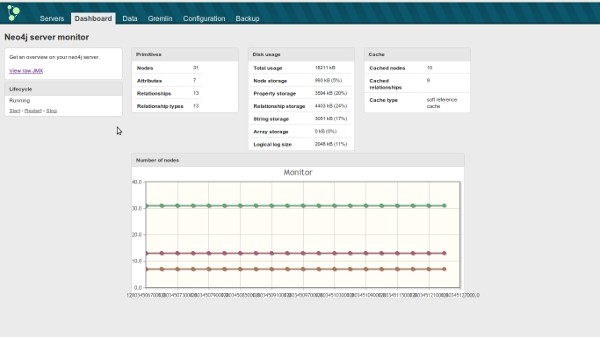
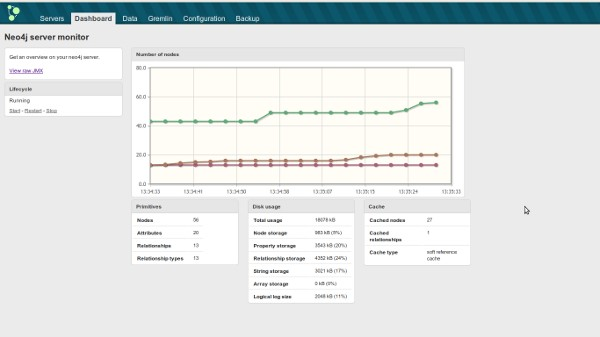
Fixed screenshot problem

diff --git a/src/main/resources/public/components/morpheus.server.monitor/js/MonitorChart.js b/src/main/resources/public/components/morpheus.server.monitor/js/MonitorChart.js
@@ -41,16 +41,18 @@ morpheus.components.server.monitor.MonitorChart = function(server) {
 	
 	me.draw = function(data) {
 		$("#" + me.containerId).empty();
-		$.jqplot(me.containerId,   me.parseData(data),
+		$.jqplot(me.containerId, me.parseData(data),
 				{ axes:{
-					yaxis:{min:0, max:80},
+					yaxis:{
+						autoscale : true
+					},
 					xaxis:{
 						min:data.end_time - (1000 * 60),
 						max:data.end_time,
 						renderer:$.jqplot.DateAxisRenderer,
 						tickOptions : {
 							formatString : "%H:%M:%S"
-						}
+						},
 					}
 				  },
 				  series:[{color:'#5FAB78'},{color:'#AB5F78'},{color:'#AB785F'}]
@@ -67,6 +69,7 @@ morpheus.components.server.monitor.MonitorChart = function(server) {
 			relCount.push([ data.timestamps[i], data.data["relationship_count"][i] ]);
 			propCount.push([ data.timestamps[i], data.data["property_count"][i] ]);
 		}
+		
 		return [nodeCount,relCount,propCount];
 	};
 	
